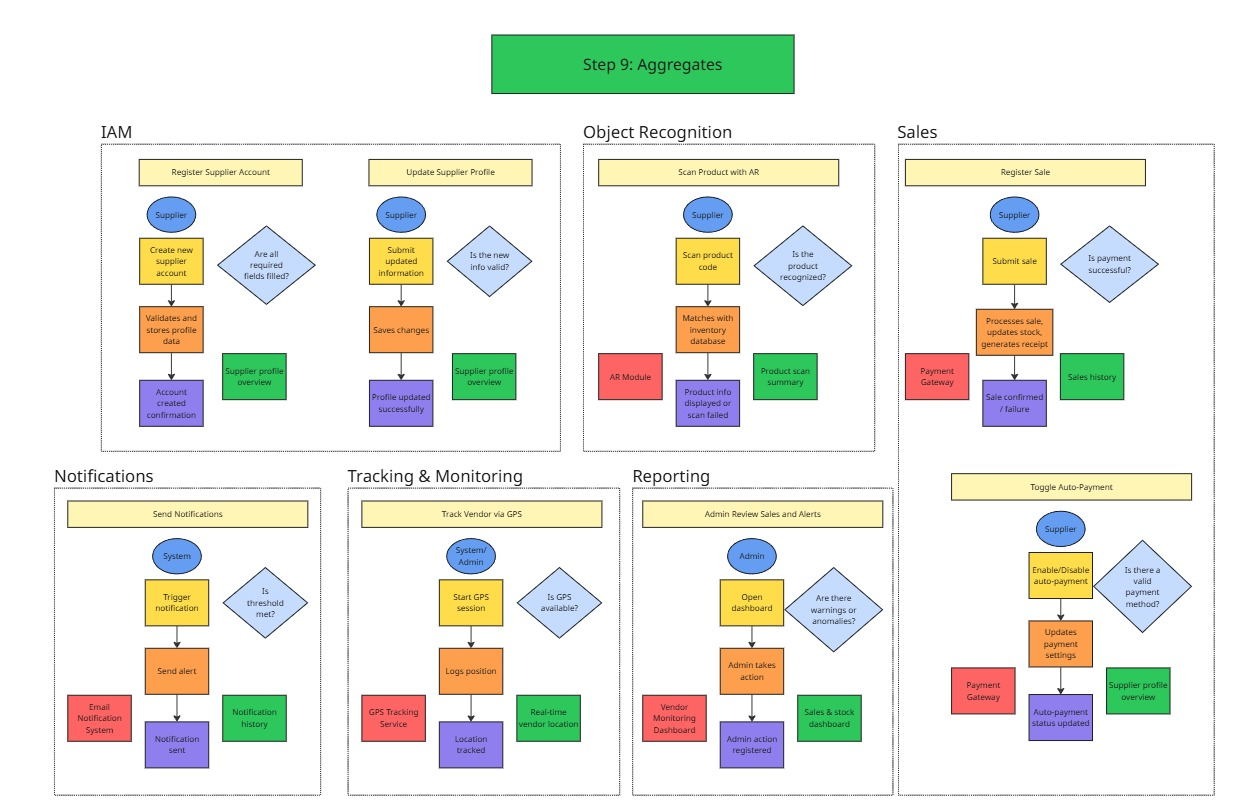
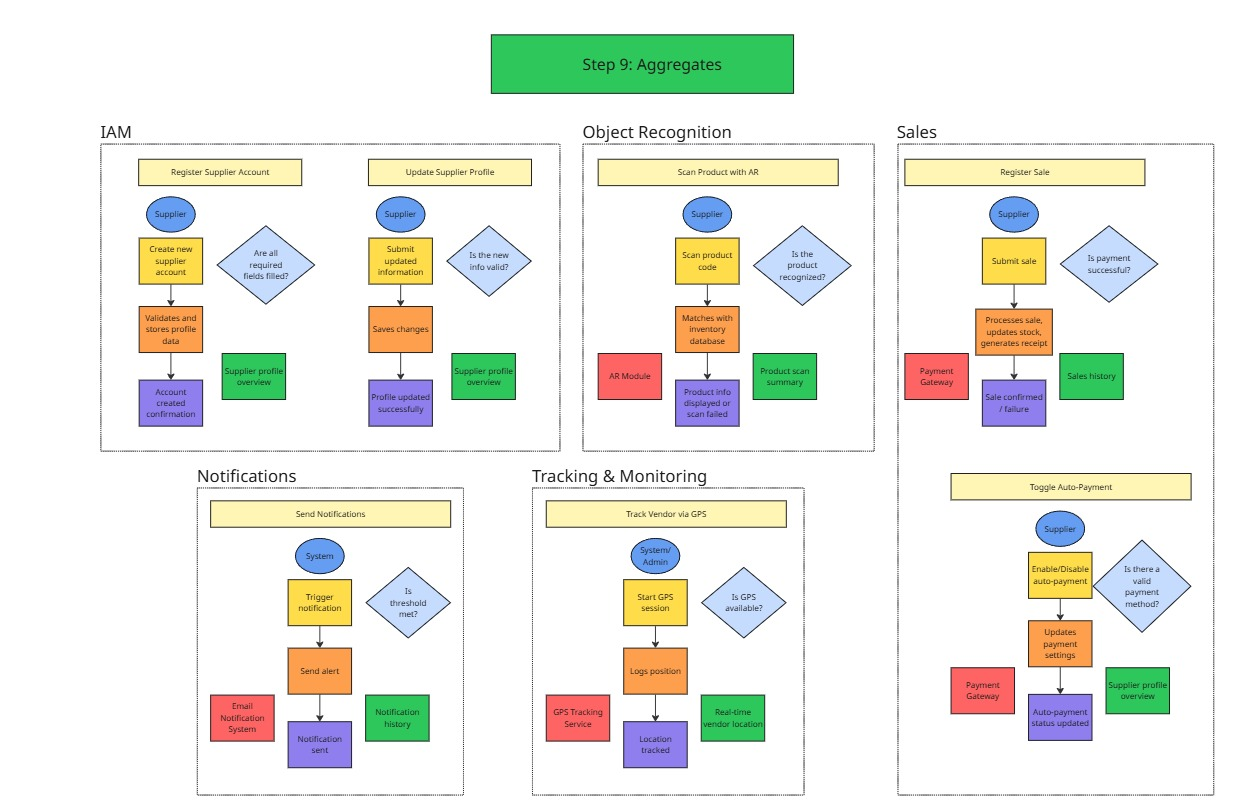
feat: added Constraints and fix Event storming

diff --git a/upc-pre-202401- si728-4253-Softwarinos-report-tb1.md b/upc-pre-202401- si728-4253-Softwarinos-report-tb1.md
@@ -1276,6 +1276,39 @@ Con el objetivo de priorizar las historias de usuario clave para el funcionamien
 
 #### 4.1.2.3. Constraints.
 
+A continuación se detallan las restricciones arquitectónicas que impactan el desarrollo de la aplicación:
+
+**Topología de la red:**
+
+La aplicación debe operar correctamente en redes locales heterogéneas, ya que será utilizada por distintas ferreterías que pueden tener infraestructuras de red limitadas o no estandarizadas. El sistema debe garantizar una conexión estable con APIs privadas de cada negocio y permitir reintentos en caso de fallos por latencia o pérdida de conexión.
+
+**Proveedor de base de datos:**
+
+No se utilizará una base de datos centralizada para toda la información operacional de las ferreterías. En su lugar, cada ferretería mantendrá su propio sistema de gestión (ERP, inventario, etc.), y Detekto deberá conectarse mediante APIs específicas provistas por cada cliente. Esto implica que el sistema debe ser capaz de adaptarse a distintos esquemas de datos y formatos de respuesta, usando adaptadores o middlewares para la integración. Internamente, Detekto podrá mantener una base temporal para almacenamiento de eventos o ventas, con consultas diarias sincronizadas.
+
+**Entorno web:**
+
+La aplicación web para administradores debe estar preparada para interactuar con APIs externas (propias de cada ferretería) y con el backend de Detekto. Debe permitir configuración de endpoints por cliente, manejo de autenticación por API Key o token JWT, y ser compatible con navegadores modernos (Chrome, Firefox, Safari). Debe alojarse en servidores seguros con configuración HTTPS y protección CORS activa.
+
+**Servidores:**
+
+El backend de Detekto será desplegado en contenedores Docker bajo infraestructura cloud (Railway, Render o similares). Debido a las limitaciones de estos entornos (recursos, concurrencia, tiempo de actividad), se deben evitar procesos de sincronización pesados o que dependan de disponibilidad constante de las APIs externas. Se recomienda establecer mecanismos de consulta programada (ej. cron jobs nocturnos) para actualizar información crítica como ventas e inventario.
+
+**Software de terceros:**
+
+Detekto debe integrarse con servicios externos según las necesidades de cada ferretería. Esto incluye:
+
+APIs propias del cliente (ERP, stock, catálogo)
+
+Servicios de notificación (email, WhatsApp Business API)
+
+Herramientas de localización o seguimiento (Google Maps API u open source alternativos)
+La aplicación debe manejar límites de consumo (rate limits) y fallos en integraciones de forma desacoplada.
+
+**Normas y regulaciones:**
+
+Detekto debe garantizar que los datos de cada ferretería se manejen de forma aislada y segura (multitenancy). Cada instancia debe respetar la privacidad del cliente, evitando compartir o almacenar de forma cruzada información sensible. Además, se debe cumplir con la Ley N° 29733 de Protección de Datos Personales. Toda la comunicación debe realizarse mediante conexiones cifradas (TLS), y los accesos deben estar protegidos mediante autenticación robusta por rol (administrador, vendedor, cliente).
+
 ### 4.1.2.2. Technical Stories
 
 Estas historias técnicas representan tareas esenciales para el soporte de funcionalidades clave, así como la mantenibilidad, rendimiento y seguridad de la aplicación.
@@ -1390,7 +1423,7 @@ En este paso se implementan los agregados de cada sistema de la aplicación.
 
 ### 4.2.2. Candidate Context Discovery.
 
-En este punto luego de la realización del Event storming, se identificaron los bounded context a trabajar. En este caso se lograron identificar 6.
+En este punto luego de la realización del Event storming, se identificaron los bounded context a trabajar. En este caso se lograron identificar 5.
 
 <img src="assets/capitulo-4/Context Discovery-IAM.jpg" alt="Context Discovery-IAM" width="900"/>
 
@@ -1399,8 +1432,6 @@ En este punto luego de la realización del Event storming, se identificaron los 
 <img src="assets/capitulo-4/Context Discovery-Notification.jpg" alt="Context Discovery-Notification" width="900"/>
 
 <img src="assets/capitulo-4/Context Discovery-Tracking-And-Monitoring.jpg" alt="Context Discovery-Tracking-And-Monitoring" width="900"/>
-
-<img src="assets/capitulo-4/Context Discovery-Reporting.jpg" alt="Context Discovery-Reporting" width="900"/>
 
 <img src="assets/capitulo-4/Context Discovery-Sales.jpg" alt="Context Discovery-Sales" width="900"/>
 
